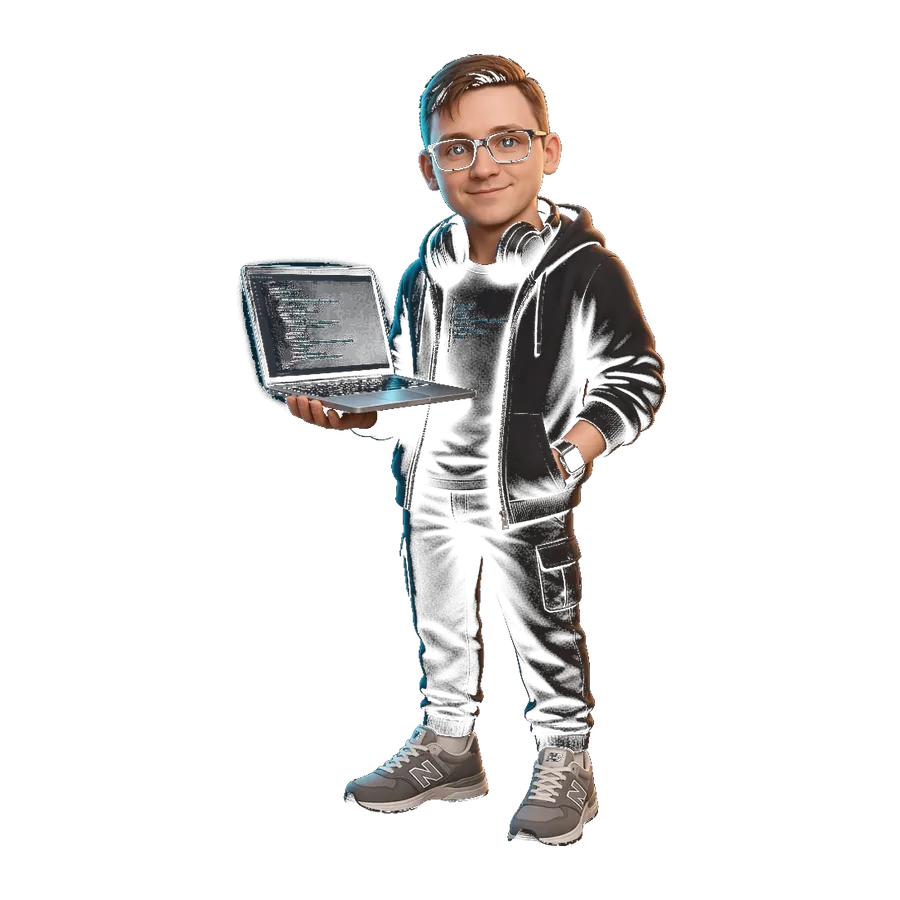
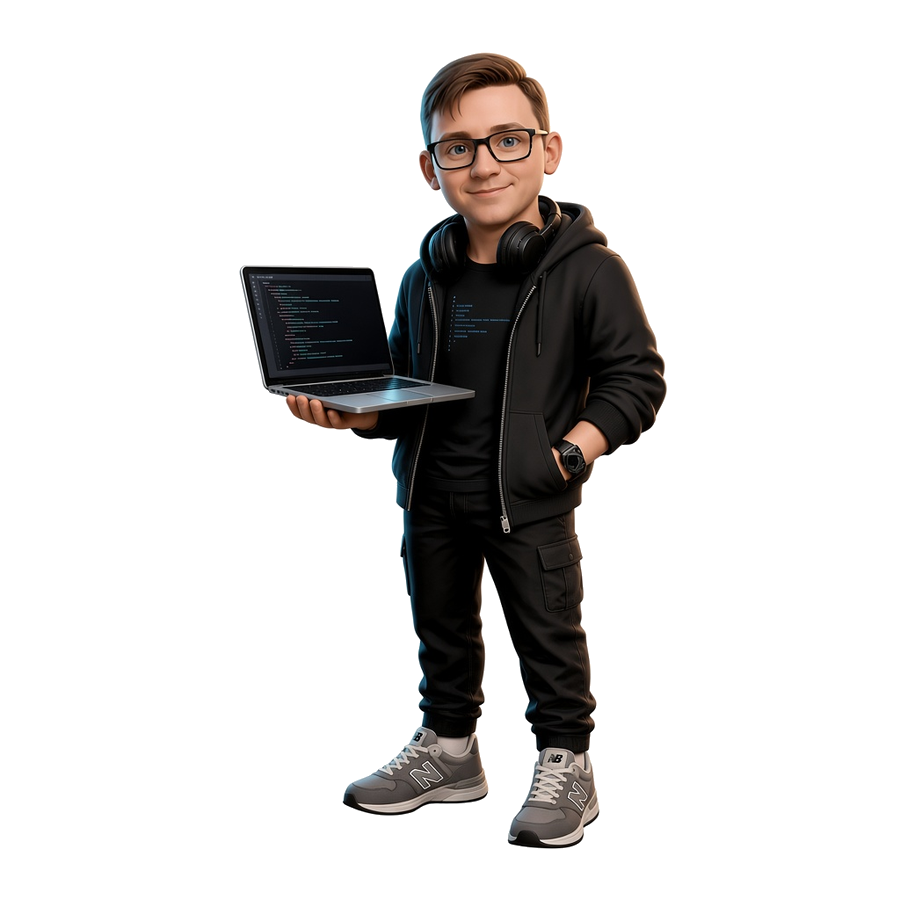
Simplify hero mascot: static base only, remove reveal.

Changed region(s): [[0.2489, 0.0622, 0.7467, 0.9644]]

diff --git a/src/components/HeroStage.tsx b/src/components/HeroStage.tsx
@@ -1,148 +1,19 @@
 "use client";
 
-import { useEffect, useRef } from "react";
-
-/**
- * Base mascot never changes.
- * Stickers layer (real alpha) sits on top; desktop flashlight reveals it.
- * Mobile: soft static peek — no checkerboard plates.
- */
+/** Static hero mascot — no reveal layer. */
 export function HeroStage() {
-  const stageRef = useRef<HTMLDivElement>(null);
-  const stickersRef = useRef<HTMLImageElement>(null);
-
-  useEffect(() => {
-    const stage = stageRef.current;
-    const stickers = stickersRef.current;
-    if (!stage || !stickers) return;
-
-    const reduced = window.matchMedia("(prefers-reduced-motion: reduce)").matches;
-    const coarse = window.matchMedia("(hover: none), (pointer: coarse)").matches;
-    const narrow = window.matchMedia("(max-width: 819px)").matches;
-    const staticPeek = reduced || coarse || narrow;
-
-    const applyPeek = () => {
-      stickers.style.webkitMaskImage =
-        "radial-gradient(circle 58% at 54% 40%, black 0%, black 30%, rgba(0,0,0,0.45) 58%, transparent 100%)";
-      stickers.style.maskImage =
-        "radial-gradient(circle 58% at 54% 40%, black 0%, black 30%, rgba(0,0,0,0.45) 58%, transparent 100%)";
-      stickers.classList.add("hero-stickers--peek");
-    };
-
-    if (staticPeek) {
-      applyPeek();
-      return;
-    }
-
-    stickers.classList.remove("hero-stickers--peek");
-
-    const state = {
-      targetX: 280,
-      targetY: 240,
-      x: 280,
-      y: 240,
-      radius: 220,
-      running: false,
-      visible: true,
-      raf: 0,
-    };
-
-    const applyMask = (x: number, y: number, radius: number) => {
-      const mask = `radial-gradient(circle ${radius}px at ${x}px ${y}px, black 0%, black 42%, rgba(0,0,0,0.68) 60%, rgba(0,0,0,0.2) 78%, transparent 100%)`;
-      stickers.style.webkitMaskImage = mask;
-      stickers.style.maskImage = mask;
-    };
-
-    const onPointer = (event: PointerEvent) => {
-      const rect = stickers.getBoundingClientRect();
-      state.targetX = event.clientX - rect.left;
-      state.targetY = event.clientY - rect.top;
-    };
-
-    const tick = () => {
-      if (!state.running) return;
-      const width = stickers.clientWidth || 600;
-      const ease = 0.12;
-      state.x += (state.targetX - state.x) * ease;
-      state.y += (state.targetY - state.y) * ease;
-      state.radius = Math.min(width * 0.3, 240);
-      applyMask(state.x, state.y, state.radius);
-      state.raf = requestAnimationFrame(tick);
-    };
-
-    const start = () => {
-      if (document.hidden || !state.visible || state.running) return;
-      state.running = true;
-      state.raf = requestAnimationFrame(tick);
-    };
-
-    const stop = () => {
-      state.running = false;
-      cancelAnimationFrame(state.raf);
-    };
-
-    const onVisibility = () => {
-      if (document.hidden) stop();
-      else start();
-    };
-
-    const observer = new IntersectionObserver(
-      (entries) => {
-        state.visible = entries.some((entry) => entry.isIntersecting);
-        if (state.visible) start();
-        else stop();
-      },
-      { threshold: 0.05 },
-    );
-
-    observer.observe(stage);
-    const hero = stage.closest(".hero") ?? document;
-    hero.addEventListener("pointermove", onPointer as EventListener, { passive: true });
-    document.addEventListener("visibilitychange", onVisibility);
-
-    const boot = () => {
-      state.targetX = (stickers.clientWidth || 600) * 0.55;
-      state.targetY = (stickers.clientHeight || 700) * 0.38;
-      state.x = state.targetX;
-      state.y = state.targetY;
-      applyMask(state.x, state.y, Math.min((stickers.clientWidth || 600) * 0.3, 240));
-      start();
-    };
-
-    if (stickers.complete && stickers.naturalWidth > 0) boot();
-    else stickers.addEventListener("load", boot, { once: true });
-
-    return () => {
-      stop();
-      observer.disconnect();
-      document.removeEventListener("visibilitychange", onVisibility);
-      hero.removeEventListener("pointermove", onPointer as EventListener);
-    };
-  }, []);
-
   return (
-    <div ref={stageRef} className="hero-stage" aria-hidden="true">
+    <div className="hero-stage" aria-hidden="true">
       <div className="hero-stage__glow" />
       {/* eslint-disable-next-line @next/next/no-img-element */}
       <img
         className="hero-mascot"
-        src="/mascot/mascot-base.webp"
+        src="/mascot/mascot-base.webp?v=static1"
         alt=""
         width={900}
         height={900}
         decoding="async"
         fetchPriority="high"
-      />
-      {/* eslint-disable-next-line @next/next/no-img-element */}
-      <img
-        ref={stickersRef}
-        className="hero-stickers"
-        src="/mascot/mascot-stickers.webp"
-        alt=""
-        width={900}
-        height={900}
-        decoding="async"
-        fetchPriority="low"
       />
     </div>
   );

diff --git a/src/app/globals.css b/src/app/globals.css
@@ -659,8 +659,7 @@ img {
   background: transparent;
 }
 
-.hero-mascot,
-.hero-stickers {
+.hero-mascot {
   position: absolute;
   top: 12%;
   left: 42%;
@@ -674,18 +673,8 @@ img {
   transform: none;
   pointer-events: none;
   user-select: none;
-}
-
-.hero-mascot {
-  z-index: 3;
+  z-index: 2;
   filter: drop-shadow(0 28px 60px rgba(0, 0, 0, 0.45));
-}
-
-.hero-stickers {
-  z-index: 5;
-  filter: none;
-  -webkit-mask-image: radial-gradient(circle 0 at 50% 50%, black 0, transparent 100%);
-  mask-image: radial-gradient(circle 0 at 50% 50%, black 0, transparent 100%);
 }
 
 .hero-stage__glow {
@@ -704,10 +693,6 @@ img {
   opacity: 0.85;
   pointer-events: none;
   z-index: 1;
-}
-
-.hero-stickers--peek {
-  opacity: 0.85;
 }
 
 .skip-link {
@@ -1659,8 +1644,7 @@ img {
     margin-top: clamp(0.75rem, 2vw, 1.75rem);
   }
 
-  .hero-mascot,
-  .hero-stickers {
+  .hero-mascot {
     top: clamp(6%, 10vh, 14%);
     bottom: clamp(-10%, -4vh, -2%);
     object-position: 58% 100%;
@@ -1765,8 +1749,7 @@ img {
     opacity: 0.9;
   }
 
-  .hero-mascot,
-  .hero-stickers {
+  .hero-mascot {
     top: clamp(52px, 9vw, 68px);
     left: auto;
     right: clamp(-174px, -32vw, -106px);
@@ -1777,14 +1760,7 @@ img {
     object-position: center top;
     opacity: 1;
     transform: none;
-  }
-
-  .hero-mascot {
-    z-index: 5;
-  }
-
-  .hero-stickers {
-    z-index: 6;
+    z-index: 2;
   }
 
   .hero-copy {
